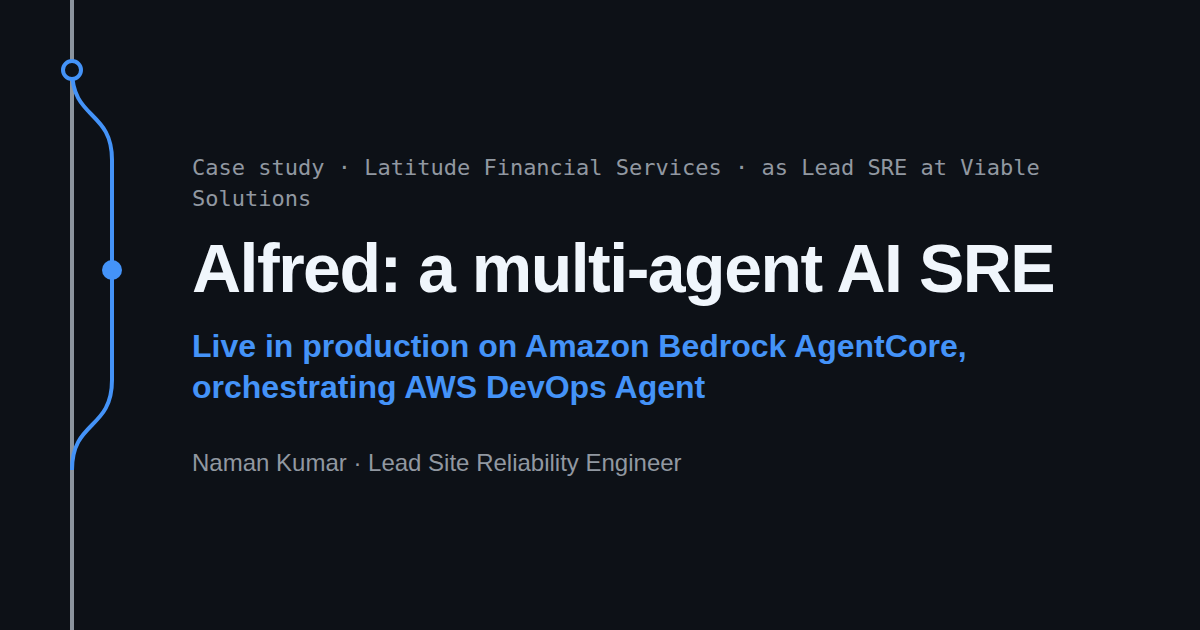
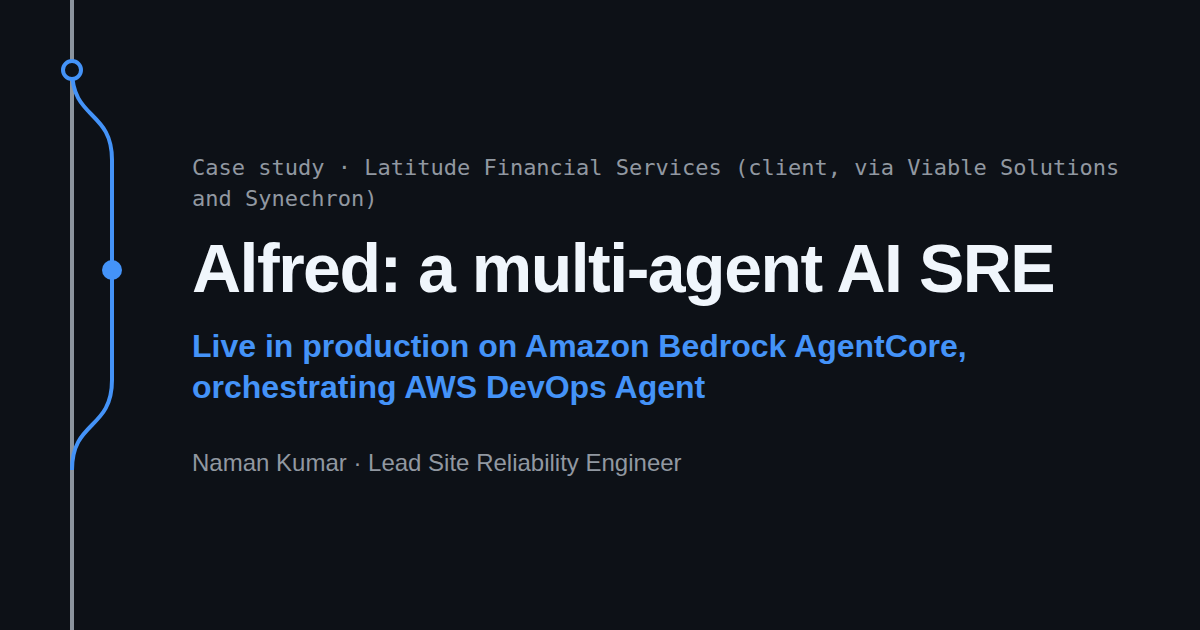
Apply confirmed facts: Latitude migration complete, client wording, 24x7 model, cert
Confirmed by Naman:
- Latitude Sumo Logic to Datadog migration is complete; observability study is Shipped
- Latitude described consistently as client, via Viable Solutions and Synechron
- Follow-the-sun model spans Melbourne and India
- AWS SA Associate shown as "earned 2019"; removed from Person JSON-LD as a credential
- Netflix fact relabelled "Launch" (50k+ in the first 10 minutes), not "Peak"
- Person JSON-LD: GitHub in sameAs; knowsAbout adds DevOps, Platform engineering,
  Cloud infrastructure, AI-assisted operations
Resume PDF and share cards regenerated.

Claude-Session: https://claude.ai/code/session_018TJiFJRWeER2dwS7egZAAH

Changed region(s): [[0.6167, 0.2413, 0.925, 0.3016], [0.1542, 0.3016, 0.3083, 0.3317]]

diff --git a/src/data/caseStudies.ts b/src/data/caseStudies.ts
@@ -63,7 +63,7 @@ export const caseStudies: CaseStudy[] = [
     feature: {
       role: 'Designed and built it, from prototype to production',
       facts: [
-        { label: 'Where', value: 'Latitude Financial Services, as Lead SRE at Viable Solutions' },
+        { label: 'Where', value: 'Latitude Financial Services (client), as Lead SRE at Viable Solutions via Synechron' },
         { label: 'Status', value: 'Live in production since September 2026' },
         { label: 'Platform', value: 'Amazon Bedrock AgentCore, orchestrating AWS DevOps Agent' },
       ],
@@ -130,7 +130,7 @@ export const caseStudies: CaseStudy[] = [
       confidentiality: 'The production code is internal to the client. This page describes public AWS services and design principles only; no client data, systems or incidents are shown.',
     },
     title: 'Alfred: a multi-agent AI SRE',
-    context: 'Latitude Financial Services · as Lead SRE at Viable Solutions',
+    context: 'Latitude Financial Services (client, via Viable Solutions and Synechron)',
     status: 'Shipped',
     headline: 'Live in production on Amazon Bedrock AgentCore, orchestrating AWS DevOps Agent',
     overview:
@@ -176,7 +176,7 @@ export const caseStudies: CaseStudy[] = [
       role: 'SRE lead',
       facts: [
         { label: 'Game', value: 'Up to six players impersonate each other with AI face and voice swapping' },
-        { label: 'Peak', value: '50k+ concurrent users in the first 10 minutes' },
+        { label: 'Launch', value: '50k+ concurrent users in the first 10 minutes' },
         { label: 'Platform', value: 'Kubernetes with GPU workloads, monitored in Grafana (NVIDIA DCGM)' },
       ],
       media: {
@@ -238,10 +238,10 @@ export const caseStudies: CaseStudy[] = [
   {
     id: 'observability-migrations',
     feature: {
-      role: 'Migrated at Cvent; migrating at Latitude',
+      role: 'Migrated at Cvent and at Latitude',
       facts: [
         { label: 'Cvent', value: '~880M log events per week, Splunk to Datadog (completed)' },
-        { label: 'Latitude', value: '20M+ log events per week, Sumo Logic to Datadog (in progress)' },
+        { label: 'Latitude', value: '20M+ log events per week, Sumo Logic to Datadog (completed)' },
         { label: 'Standards', value: 'SLI/SLO and instrumentation standards for Java microservices' },
         { label: 'Also', value: "Moved a newly acquired company to Datadog (10+ dashboards)" },
       ],
@@ -258,17 +258,17 @@ export const caseStudies: CaseStudy[] = [
         'Cvent: migrated ~880M log events per week from Splunk to Datadog.',
         'Cvent: owned SLI/SLO and custom instrumentation standards for Java microservices.',
         "Cvent: led a newly acquired company's move to Datadog (10+ dashboards).",
-        'Latitude: migrating 20M+ log events per week from Sumo Logic to Datadog, including Grok parsing pipelines and detection monitors.',
+        'Latitude: migrated 20M+ log events per week from Sumo Logic to Datadog, including Grok parsing pipelines and detection monitors.',
       ],
       // TODO: trade-offs (cutover strategy, dual-running, cost, retention) — needs first-hand detail.
       confidentiality: 'Pipelines and monitors are described by purpose only; log content and client system names are omitted.',
     },
     title: 'Large-scale observability migrations',
     context: 'Cvent (Splunk to Datadog) · Latitude (Sumo Logic to Datadog)',
-    status: 'In progress',
-    headline: '~880M log events per week moved; 20M+ per week in flight',
+    status: 'Shipped',
+    headline: '~880M and 20M+ log events per week moved to Datadog',
     overview:
-      'Two log platform migrations to Datadog at two employers: one completed at Cvent, one under way at Latitude Financial Services.',
+      'Two log platform migrations to Datadog, both completed: one at Cvent, and one at Latitude Financial Services (client, via Viable Solutions and Synechron).',
     problem:
       'Logs, metrics and traces split across platforms make incidents slower to diagnose. Both migrations consolidate them for single-pane dashboards.',
     architecture: {
@@ -283,7 +283,7 @@ export const caseStudies: CaseStudy[] = [
     implementation: [
       'Cvent: migrated ~880M log events per week from Splunk to Datadog, unifying logs, metrics and traces on one platform.',
       "Cvent: owned SLI/SLO and custom instrumentation standards for Java microservices, and led a newly acquired company's move to Datadog (10+ dashboards).",
-      'Latitude: migrating 20M+ log events per week from Sumo Logic to Datadog, with Grok parsing pipelines for payment logs.',
+      'Latitude: migrated 20M+ log events per week from Sumo Logic to Datadog, with Grok parsing pipelines for payment logs.',
     ],
     decisions: [
       'One platform for logs, metrics and traces instead of separate tools.',
@@ -293,8 +293,9 @@ export const caseStudies: CaseStudy[] = [
     reliability: ['Detection monitors for anomalies in payment transaction flows (Latitude).'],
     outcomes: [
       'Cvent: logs, metrics and traces on one platform.',
-      'Latitude: aiming for single-pane dashboards and lower MTTR.',
+      'Latitude: migration complete; 20M+ log events per week now on Datadog.',
     ],
+    // TODO: measured effect at Latitude (e.g. MTTR before/after) when available.
     // TODO: decisions/trade-offs (cutover strategy, cost) and lessons learned not on the resume.
     stack: ['Datadog', 'Splunk', 'Sumo Logic', 'Grok parsing', 'SLIs/SLOs'],
     branch: 'cvent',
@@ -302,7 +303,7 @@ export const caseStudies: CaseStudy[] = [
   {
     id: 'claude-bedrock-proxy',
     title: 'Claude for developers via a Bedrock proxy',
-    context: 'Latitude Financial Services · via Viable Solutions',
+    context: 'Latitude Financial Services (client, via Viable Solutions and Synechron)',
     status: 'In progress',
     headline: 'GitHub Copilot on Claude, with guardrails and per-developer cost attribution',
     overview:

diff --git a/src/data/profile.ts b/src/data/profile.ts
@@ -9,6 +9,8 @@ export const profile = {
   location: 'Melbourne, VIC',
   email: 'naman.kumar2397@gmail.com',
   linkedin: 'https://www.linkedin.com/in/-namankumar/',
+  /** Used only in structured data (sameAs), not shown on the page. */
+  github: 'https://github.com/naman-kumar2397',
   linkedinLabel: 'linkedin.com/in/-namankumar',
   summary:
     'Lead Site Reliability Engineer with 7+ years of hands-on experience designing, scaling and automating large-scale distributed systems on AWS. Currently leading a team of 10 engineers supporting 80+ AWS accounts for a major financial services client. Proven track record in cutting incident response times, consolidating observability platforms, and moving ClickOps estates to Infrastructure as Code. Now focused on AI-driven operations, including LLM-powered incident tooling and secure enterprise adoption of Claude on AWS Bedrock.',
@@ -93,12 +95,12 @@ export const experience: Role[] = [
     stack: ['AWS', 'ECS Fargate', 'Datadog', 'Dynatrace', 'ServiceNow', 'CrowdStrike', 'Terraform', 'Bedrock'],
     points: [
       { label: 'Team leadership', text: 'Lead a team of 10 offshore engineers in India, bridging client expectations and offshore delivery for infrastructure support across 80+ AWS accounts.', top: true },
-      { label: 'Support model', text: 'Streamlined intake for all additional workloads through ServiceNow and set up a follow-the-sun model for 24x7 support.' },
+      { label: 'Support model', text: 'Streamlined intake for all additional workloads through ServiceNow and set up a follow-the-sun model across Melbourne and India for 24x7 support.' },
       { label: 'AI SRE (Alfred)', text: 'Designed and built a multi-agent incident investigator, now live in production on Amazon Bedrock AgentCore, orchestrating AWS DevOps Agent with Datadog, Dynatrace, Buildkite and GitHub, with dependency-graph blast radius on pull requests.', top: true },
       { label: 'Claude for developers', text: 'Building an OpenAI-compatible Lambda proxy over Bedrock so GitHub Copilot (BYOK) can use Claude models, with a mandatory server-side guardrail and per-developer keys for cost attribution.' },
       { label: 'ECS upgrade automation', text: 'Automated ECS cluster upgrades across all environments with zero manual intervention, moving clusters to CIS-hardened Amazon Linux 2023 AMIs.', top: true },
       { label: 'Patch automation', text: 'Removed ClickOps from monthly patching by introducing Ivanti Security Controls; designed the networking and architecture the team built on.' },
-      { label: 'Observability consolidation', text: 'Migrating 20M+ log events per week from Sumo Logic to Datadog, including Grok parsing pipelines for payment logs and transaction-orphan detection monitors, for single-pane dashboards and lower MTTR.', top: true },
+      { label: 'Observability consolidation', text: 'Migrated 20M+ log events per week from Sumo Logic to Datadog, including Grok parsing pipelines for payment logs and transaction-orphan detection monitors, for single-pane dashboards and lower MTTR.', top: true },
       { label: 'Security', text: 'Rolled out CrowdStrike Falcon sensor injection for ECS Fargate workloads using the init-container model.', top: true },
       { label: 'High availability', text: 'Designed a 2-node active/passive Windows Failover Cluster on shared EBS io2 Multi-Attach to replace single-server Control-M staging hosts across Test, Pre-Prod and Prod.' },
       { label: 'IaC adoption', text: 'Moving AWS accounts inherited from a previous vendor from ClickOps to CloudFormation and Terraform.' },
@@ -188,7 +190,7 @@ export const accolades = [
 ];
 
 export const education = 'Bachelor of Technology, Manipal University Jaipur (2015 – 2019)';
-export const certification = 'AWS Certified Solutions Architect – Associate (R2XYHRM1JE1E1TKJ), 2019';
+export const certification = 'AWS Certified Solutions Architect – Associate (R2XYHRM1JE1E1TKJ), earned 2019';
 
 /**
  * Technology carousel (shown while the full inventory is collapsed). Mirrors `resumeSkills`.

diff --git a/src/data/journey.ts b/src/data/journey.ts
@@ -183,7 +183,7 @@ export const branches = {
       'ServiceNow intake for all additional workloads and a follow-the-sun 24x7 support model',
       'Zero-touch ECS cluster upgrades to CIS-hardened Amazon Linux 2023 AMIs',
       'Removed ClickOps from monthly patching with Ivanti Security Controls',
-      'Migrating 20M+ log events per week from Sumo Logic to Datadog',
+      'Migrated 20M+ log events per week from Sumo Logic to Datadog',
       'CrowdStrike Falcon sensor injection for ECS Fargate',
       'Active/passive Windows Failover Cluster for Control-M staging hosts',
       'Moving inherited AWS accounts from ClickOps to CloudFormation and Terraform',
@@ -198,7 +198,7 @@ export const branches = {
     parent: 'latitude',
     colour: 'teal',
     title: 'Alfred: a multi-agent AI SRE',
-    org: 'Latitude Financial Services',
+    org: 'Latitude Financial Services (client, via Viable Solutions and Synechron)',
     // TODO: prototype start date not recorded; production since Sep 2026.
     period: 'Live since Sep 2026',
     highlights: [
@@ -217,7 +217,7 @@ export const branches = {
     parent: 'latitude',
     colour: 'orange',
     title: 'Claude for Developers',
-    org: 'Latitude Financial Services',
+    org: 'Latitude Financial Services (client, via Viable Solutions and Synechron)',
     // TODO: start date not on the resume.
     period: '',
     highlights: [
@@ -350,12 +350,12 @@ export const commits: (Commit & { branch: BranchId; source?: BranchId })[] = [
   },
   { branch: 'main', kind: 'merge', source: 'cit', message: "Merge branch 'work/ci-and-t'", date: 'Jun 2025' },
 
-  { branch: 'latitude', kind: 'branch', message: 'Joined as Lead SRE for Latitude Financial Services', date: 'Aug 2025' },
+  { branch: 'latitude', kind: 'branch', message: 'Joined Viable Solutions (via Synechron) as Lead SRE for Latitude Financial Services', date: 'Aug 2025' },
   // TODO: Latitude commits below are undated on the resume; order is approximate.
   {
     branch: 'latitude', kind: 'commit', date: '',
     message: 'feat: 10-engineer team, follow-the-sun 24x7 support', milestone: true,
-    body: 'Lead a team of 10 offshore engineers in India across 80+ AWS accounts. Streamlined intake for all additional workloads through ServiceNow and set up a follow-the-sun model for 24x7 support.',
+    body: 'Lead a team of 10 offshore engineers in India across 80+ AWS accounts. Streamlined intake for all additional workloads through ServiceNow and set up a follow-the-sun model across Melbourne and India for 24x7 support.',
   },
   // TODO: prototype dates not recorded.
   { branch: 'ai', kind: 'branch', message: 'Alfred: multi-agent AI SRE prototype', date: '' },
@@ -382,7 +382,7 @@ export const commits: (Commit & { branch: BranchId; source?: BranchId })[] = [
   {
     branch: 'latitude', kind: 'commit', date: '',
     message: 'feat: 20M+ events/week from Sumo Logic to Datadog',
-    body: 'Migrating 20M+ log events per week from Sumo Logic to Datadog, including Grok parsing pipelines for payment logs and transaction-orphan detection monitors, for single-pane dashboards and lower MTTR.',
+    body: 'Migrated 20M+ log events per week from Sumo Logic to Datadog, including Grok parsing pipelines for payment logs and transaction-orphan detection monitors, for single-pane dashboards and lower MTTR.',
   },
   {
     branch: 'ai', kind: 'commit', date: '',
